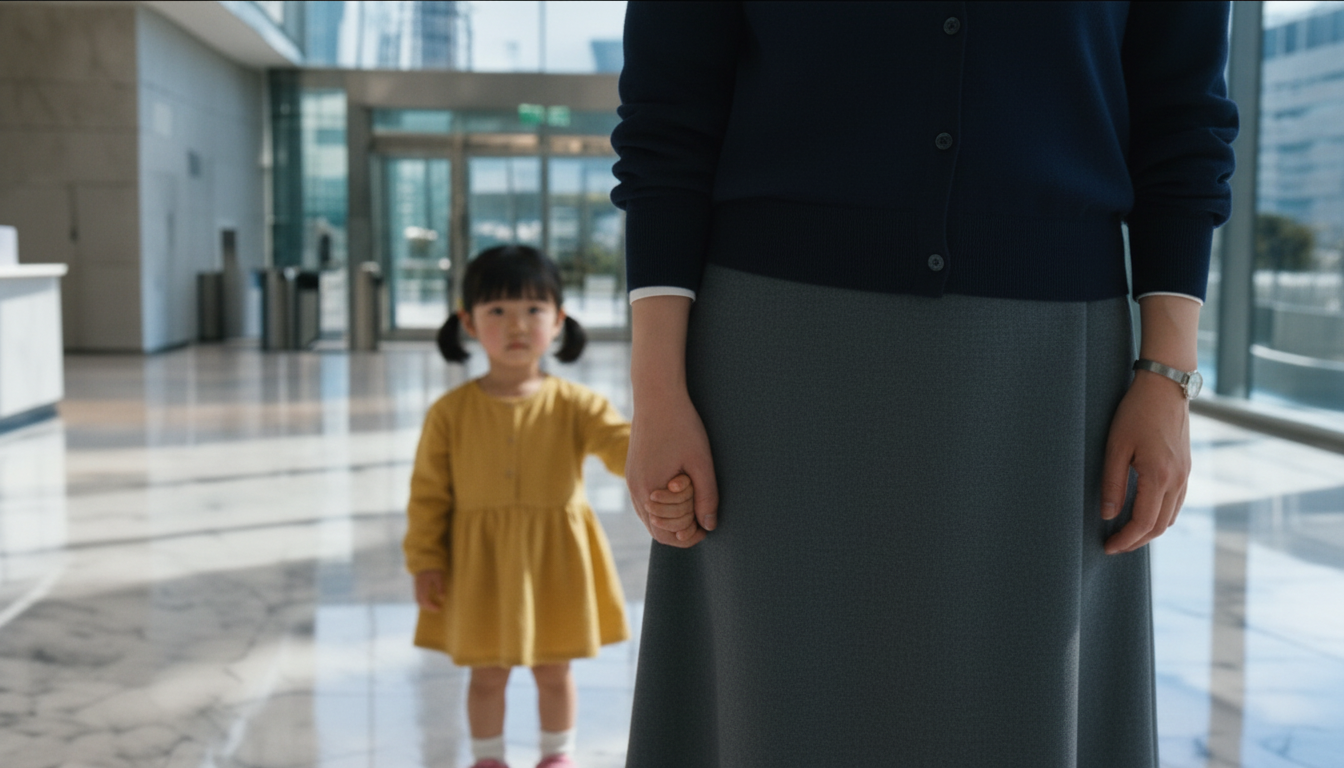
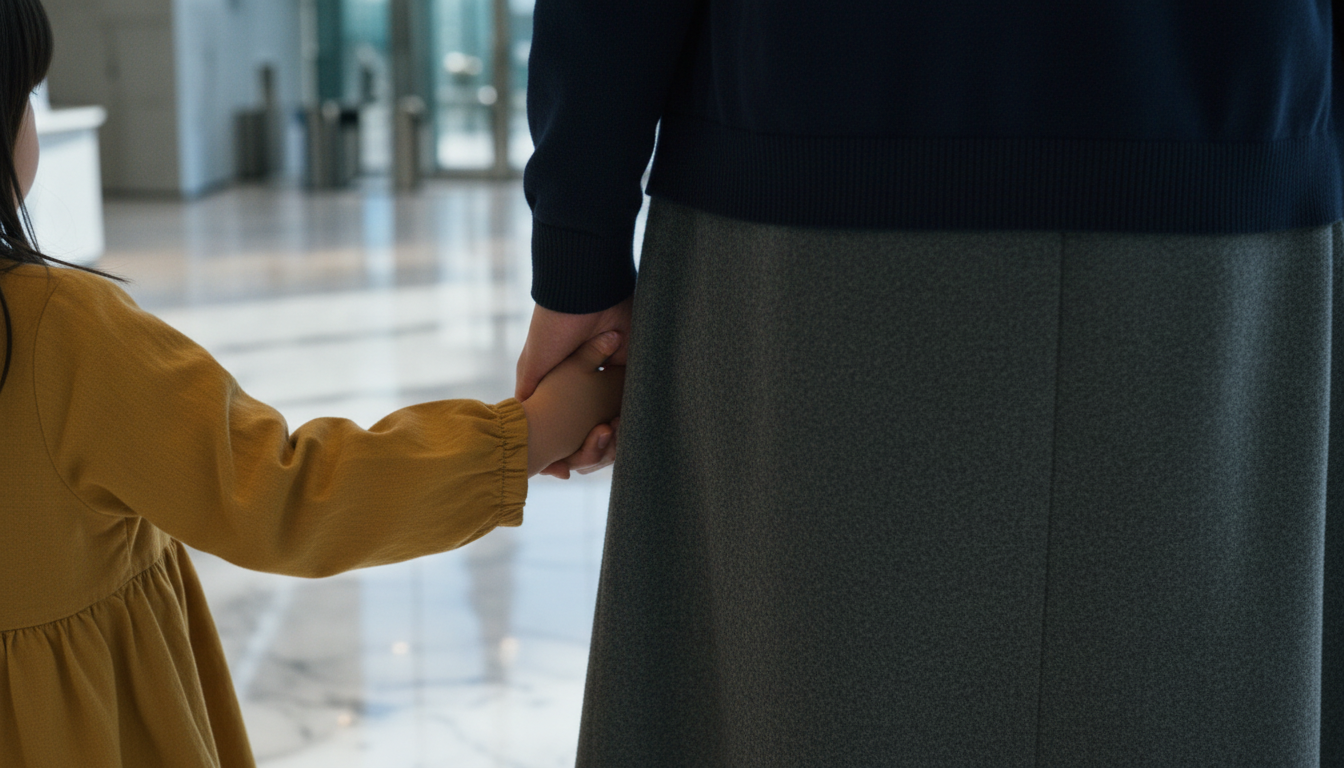
S01e 새 키프레임(손 ECU, 원근·나이 문제 해소) 채택, 완성본 한 컷 교체 도구
Claude-Session: https://claude.ai/code/session_01NcCUyptYk83EHSkd2nddfa

diff --git a/scripts/patch_final_cut.py b/scripts/patch_final_cut.py
@@ -1,0 +1,63 @@
+#!/usr/bin/env python3
+"""완성 본편에서 한 컷만 교체(무과금, 로컬) — 재조립(burn) 없이 수정 요청을 반영한다.
+
+교체 클립(assets/video-overrides/<skit>/sceneNN.mp4)의 앞부분을 컷 구간 [t0, t1]에 덮고, 그 구간에 걸친 자막(subs/<skit>.ass)만
+같은 스타일로 다시 입힌다. 오디오는 그대로 복사. 컷 경계는 하드컷이어야 한다(디졸브 경계면 중단).
+구간은 조립 검수 report.txt(qa_assembly.py)의 장면 경계를 쓴다.
+사용법: patch_final_cut.py <skit> <장면ID> <in.mp4> <out.mp4> <report.txt>
+"""
+import json
+import os
+import re
+import subprocess
+import sys
+
+ROOT = os.path.abspath(os.path.join(os.path.dirname(os.path.abspath(__file__)), ".."))
+
+
+def ts(s):
+    h, m, x = s.split(":")
+    return int(h) * 3600 + int(m) * 60 + float(x)
+
+
+def tc(s):
+    s = max(0.0, s)
+    return f"{int(s // 3600)}:{int(s % 3600 // 60):02d}:{s % 60:05.2f}"
+
+
+def main():
+    skit, sid, src, out, report = sys.argv[1:6]
+    sb = json.load(open(os.path.join(ROOT, "scripts", "storyboard", f"{skit}.json"), encoding="utf-8"))["scenes"]
+    au = json.load(open(os.path.join(ROOT, "scripts", "audio", f"{skit}.json"), encoding="utf-8"))
+    idx = next(i for i, s in enumerate(sb, start=1) if s["id"] == sid)
+    tr = au.get("transitions", [])
+    if (idx >= 2 and tr[idx - 2] > 0.05) or (idx <= len(tr) and tr[idx - 1] > 0.05):
+        sys.exit(f"{sid}: 디졸브 경계 — 이 도구로 교체 불가(burn 재조립 필요)")
+    m = re.search(rf"^{re.escape(sid)}:\s+([0-9.]+) ~\s+([0-9.]+)s", open(report, encoding="utf-8").read(), re.M)
+    t0, t1 = float(m.group(1)), float(m.group(2))
+    t0 += 0.02; t1 -= 0.02   # 앞뒤 컷과 겹치는 1프레임은 원본 유지
+    clip = os.path.join(ROOT, "assets", "video-overrides", skit, f"scene{idx:02d}.mp4")
+    work = out + ".work"; os.makedirs(work, exist_ok=True)
+    # 구간에 걸친 자막만, 구간 시작 기준으로 옮긴 ASS
+    lines = open(os.path.join(ROOT, "subs", f"{skit}.ass"), encoding="utf-8").read().splitlines()
+    head = [l for l in lines if not l.startswith("Dialogue:")]
+    ev = []
+    for l in lines:
+        if not l.startswith("Dialogue:"):
+            continue
+        p = l.split(",", 9); a, b = ts(p[1]), ts(p[2])
+        if b > t0 and a < t1:
+            p[1], p[2] = tc(a - t0), tc(b - t0); ev.append(",".join(p))
+    ass = os.path.join(work, "patch.ass"); open(ass, "w", encoding="utf-8").write("\n".join(head + ev) + "\n")
+    patch = os.path.join(work, "patch.mp4")
+    subprocess.run(["ffmpeg", "-v", "error", "-y", "-i", clip, "-t", f"{t1 - t0:.3f}", "-vf",
+                    f"scale=1920:1080:force_original_aspect_ratio=increase,crop=1920:1080,fps=24,format=yuv420p,ass={ass}",
+                    "-an", "-c:v", "libx264", "-crf", "16", patch], check=True)
+    subprocess.run(["ffmpeg", "-v", "error", "-y", "-i", src, "-i", patch, "-filter_complex",
+                    f"[1:v]setpts=PTS+{t0:.3f}/TB[p];[0:v][p]overlay=0:0:enable='between(t,{t0:.3f},{t1:.3f})':eof_action=pass,format=yuv420p[v]",
+                    "-map", "[v]", "-map", "0:a", "-c:v", "libx264", "-preset", "medium", "-crf", "18", "-c:a", "copy", "-movflags", "+faststart", out], check=True)
+    print(f"저장: {out} — {sid}(scene{idx:02d}) {t0:.2f}~{t1:.2f}s 교체, 자막 {len(ev)}줄 재입힘")
+
+
+if __name__ == "__main__":
+    main()
